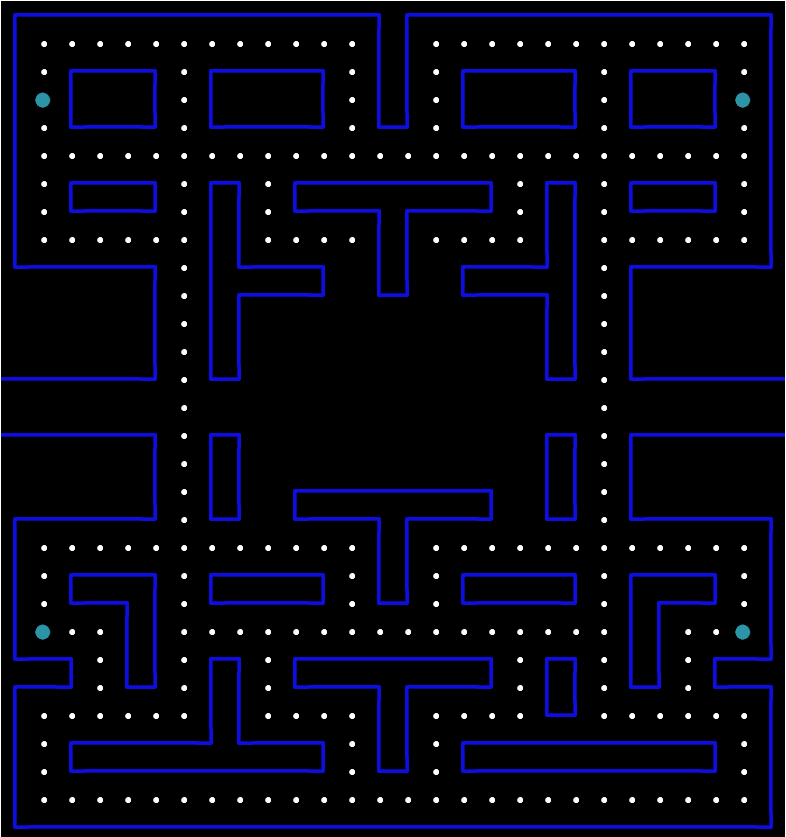
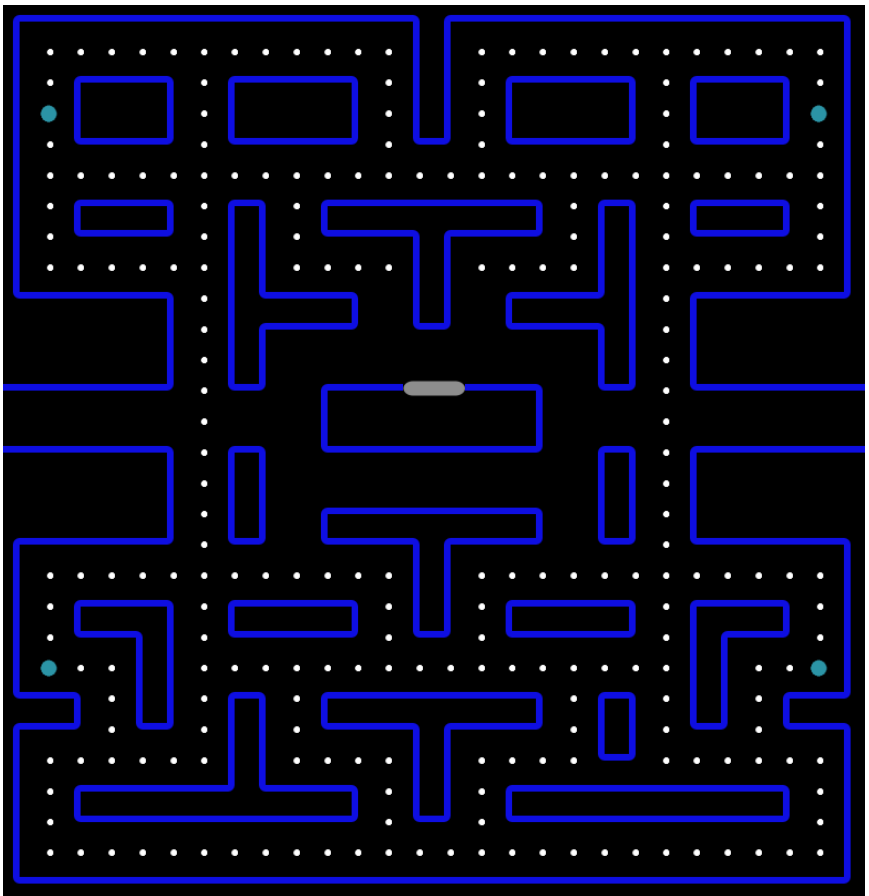
Removed row from grid Added gate to "GhostLair" Thickened wall thickness.

Changed region(s): [[0.0, 0.0, 1.0, 1.0], [0.3664, 0.4038, 0.6412, 0.5281], [0.6718, 0.497, 0.7328, 0.6213]]

diff --git a/index.html b/index.html
@@ -29,6 +29,16 @@
       background-color: black;
     }
 
+    .GateLeft {
+      background-image: url('gate.png');
+      background-position: 0px 0px;
+    }
+
+    .GateRight {
+      background-image: url('gate.png');
+      background-position: -28px 0px;
+    }
+
     .WallTopLeft {
       background-image: url('wall.png');
       background-position: 0px 0px;
@@ -36,27 +46,27 @@
 
     .WallHorizontal {
       background-image: url('wall.png');
-      background-position: -16px 0px;
+      background-position: -28px 0px;
     }
 
     .WallTopRight {
       background-image: url('wall.png');
-      background-position: 28px 0px;
+      background-position: -56px 0px;
     }
 
     .WallVertical {
       background-image: url('wall.png');
-      background-position: 0px -16px;
+      background-position: 0px -28px;
     }
 
     .WallBottomLeft {
       background-image: url('wall.png');
-      background-position: 0px 28px;
+      background-position: 0px -56px;
     }
 
     .WallBottomRight {
       background-image: url('wall.png');
-      background-position: 28px 28px;
+      background-position: -56px -56px;
     }
 
     .WallInternal {}

diff --git a/webpack.production.config.js b/webpack.production.config.js
@@ -30,9 +30,10 @@ module.exports = {
     new CopyWebpackPlugin({
       patterns: [
         { from: 'index.html' },
-        { from: 'sprites/power_pill.png' },
         { from: 'sprites/dot.png' },
-        { from: 'sprites/wall.png' },
+        { from: 'sprites/gate.png' },
+        { from: 'sprites/power_pill.png' },
+        { from: 'sprites/wall.png' }
       ]
     }),
     new WasmPackPlugin({

diff --git a/webpack.config.js b/webpack.config.js
@@ -31,8 +31,9 @@ module.exports = {
     new CopyWebpackPlugin({
       patterns: [
         { from: 'index.html' },
-        { from: 'sprites/power_pill.png' },
         { from: 'sprites/dot.png' },
+        { from: 'sprites/gate.png' },
+        { from: 'sprites/power_pill.png' },
         { from: 'sprites/wall.png' },
 
       ]

diff --git a/src/game.rs b/src/game.rs
@@ -4,8 +4,10 @@ use web_sys::console::log_1;
 use web_sys::Document;
 use web_sys::HtmlDivElement;
 
+use super::pacman::PacMan;
+
 // Initial grid layouto
-static GRID_INIT: [&str; 30] = [
+static GRID_INIT: [&str; 29] = [
     r#"/------------¬/------------¬"#,
     r#"|oooooooooooo||oooooooooooo|"#,
     r#"|o/--¬o/---¬o||o/---¬o/--¬o|"#,
@@ -18,10 +20,9 @@ static GRID_INIT: [&str; 30] = [
     r#"\----¬o|\--¬ || /--,|o/----,"#,
     r#"+++++|o|/--, \, \--¬|o|+++++"#,
     r#"+++++|o||          ||o|+++++"#,
-    r#"+++++|o||          ||o|+++++"#,
-    r#"-----,o\, LL    LL \,o\-----"#,
-    r#"      o   L      L   o      "#,
-    r#"-----¬o/¬ LLLLLLLL /¬o/-----"#,
+    r#"-----,o\, /--gG--¬ \,o\-----"#,
+    r#"      o   |      |   o      "#,
+    r#"-----¬o/¬ \------, /¬o/-----"#,
     r#"+++++|o||          ||o|+++++"#,
     r#"+++++|o|| /------¬ ||o|+++++"#,
     r#"/----,o\, \--¬/--, \,o\----¬"#,
@@ -40,18 +41,26 @@ static GRID_INIT: [&str; 30] = [
 
 #[derive(Debug, PartialEq)]
 pub(crate) struct Game {
-    pub(crate) grid: [Cell; 28 * 30],
+    pub(crate) grid: Grid,
+    pub(crate) pac_man: PacMan,
+    // TODO add monster state here.
 }
+
+#[derive(Debug, PartialEq)]
+pub(crate) struct Grid([Cell; 28 * 29]);
 
 impl Default for Game {
     fn default() -> Self {
-        GRID_INIT.into()
+        Self {
+            grid: GRID_INIT.into(),
+            pac_man: PacMan::default(),
+        }
     }
 }
 
-impl From<[&str; 30]> for Game {
-    fn from(value: [&str; 30]) -> Self {
-        let mut grid: [Cell; 28 * 30] = [Cell::Blank; 28 * 30];
+impl From<[&str; 29]> for Grid {
+    fn from(value: [&str; 29]) -> Self {
+        let mut grid: [Cell; 28 * 29] = [Cell::Blank; 28 * 29];
 
         // i - row identifiero
         // j - column identifier
@@ -62,7 +71,7 @@ impl From<[&str; 30]> for Game {
             }
         }
 
-        Self { grid }
+        Grid(grid)
     }
 }
 
@@ -74,12 +83,15 @@ impl Game {
         game_element: HtmlDivElement,
     ) -> Result<(), JsValue> {
         log_1(&JsValue::from("generate"));
-        for (i, cell) in self.grid.into_iter().enumerate() {
+        for (i, cell) in self.grid.0.into_iter().enumerate() {
             let cell_element = document.create_element("div").unwrap();
             cell_element.set_id(&i.to_string());
             cell_element.set_class_name(&cell.to_string());
             game_element.append_child(&cell_element)?;
         }
+
+        // Add actors.
+
         Ok(())
     }
 }

diff --git a/src/lib.rs b/src/lib.rs
@@ -1,9 +1,9 @@
 mod cell;
 mod game;
+mod pacman;
 mod wall;
 
 use wasm_bindgen::prelude::wasm_bindgen;
-use wasm_bindgen::prelude::*;
 use wasm_bindgen::JsCast;
 use wasm_bindgen::JsValue;
 use web_sys::console::log_1;
@@ -35,7 +35,6 @@ fn run() -> Result<(), JsValue> {
     // window object.
     let window = web_sys::window().expect("no global `window` exists");
     let document = window.document().expect("should have a document on window");
-    let body = document.body().expect("document should have a body");
     let game_element: HtmlDivElement = document
         .get_element_by_id("game")
         .unwrap()
@@ -43,9 +42,13 @@ fn run() -> Result<(), JsValue> {
 
     // Manufacture the element we're gonna append
 
-    // Init game board.
+    // Initialise game board.
     let game = Game::default();
     let _ = game.generate(&document, game_element);
+
+    // Spawn actors.
+
+    // Attach listeners.
 
     Ok(())
 }

diff --git a/src/cell.rs b/src/cell.rs
@@ -13,7 +13,8 @@ pub(crate) enum Cell {
     Dot,
     Blank,
     Empty,
-    GhostLair,
+    GateLeft,
+    GateRight,
     PowerPill,
     W(Wall),
 }
@@ -23,8 +24,9 @@ impl From<char> for Cell {
         match value {
             'o' => Self::Dot,
             ' ' => Self::Empty,
-            'L' => Self::GhostLair,
             'P' => Self::PowerPill,
+            'g' => Self::GateLeft,
+            'G' => Self::GateRight,
             '+' => Self::W(Wall::Internal),
             '|' => Self::W(Wall::Vertical),
             '¬' => Self::W(Wall::TopRight),

diff --git a/src/pacman.rs b/src/pacman.rs
@@ -1,0 +1,16 @@
+#[derive(Debug, PartialEq)]
+pub(crate) struct PacMan {
+    // board position.
+    position: usize,
+    // pixel offset into sprite array.
+    animatation_state: usize,
+}
+
+impl Default for PacMan {
+    fn default() -> Self {
+        Self {
+            position: 602,
+            animatation_state: 0,
+        }
+    }
+}

diff --git a/README.md b/README.md
@@ -4,7 +4,7 @@ Manupulating the DOM via rust, has proformance issues.
 
 This is a just a performance testbed. A simple game
 where I explore the performance differences between code
-patterns that change the DOM at speed.
+snippets built to change the DOM at speed.
 
 The keyboard event listener manipulates the DIV under consideration as the char moves .. this should be a performant as possibile.
 
